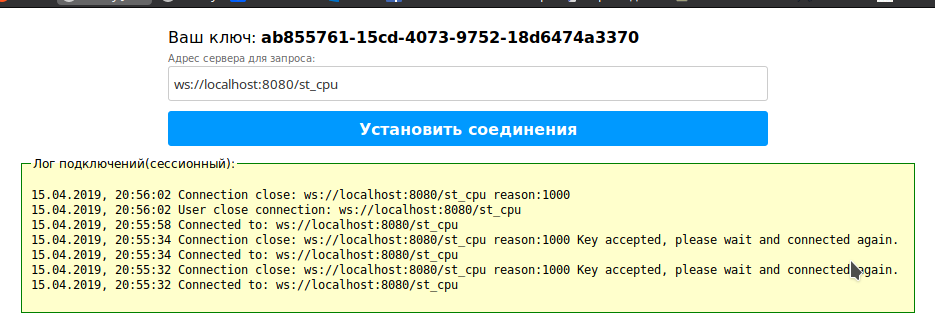
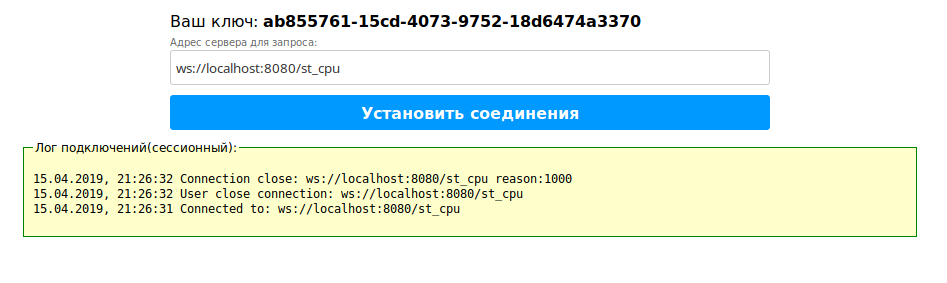
readme update

diff --git a/README.md b/README.md
@@ -1,130 +1,164 @@
+# Тестовое задание 
 
+## Описание задания
+
+Написать сервер и клиента со следующим функционалом:
+1. При запуске клиента ему передаётся адрес сервера. Клиент формирует уникальный ключ и пытается подключиться с ним к серверу.
+2. Сервер имеет простой web-интерфейс, закрытый паролем.
+3. В интерфейсе сервера можно посмотреть все запросы от клиентов и разрешить или отклонить запрос.
+4. Если запрос принят, то секретный ключ клиента сохраняется в список разрешённых и клиент может поднять web-сокет для обмена состоянием с сервером.
+5. Если запрос отклонён, то секретный ключ клиента сохраняется в список запрещённых и клиент больше не отображается списке запросов.
+6. Клиент должен уметь переживать перезагрузку.
+7. Сервер также должен показывать список разрешённых клиентов.
+8. В информации о клиенте должны быть имя и IP адрес машины клиента.
+9. У клиентов, подключенных по сокету необходимо показывать загрузку процессора.
+
+Примечание:
+В данном случае речь о взаимодействии сервисов, поэтому описываемое взаимодействие "клиент-сервис" по сути является взаимодействием "сервис-сервис"
+
+## Серверная часть 
+
+Серверная часть проекта решает задачу регистрации ключей на стороне сервера и управления ими через административную часть сервера. 
+Сервер использует базу данных для хранения ключей, в данном случае была выбрана [PostgreSQL]([https://www.postgresql.org/](https://www.postgresql.org/)), в качестве ORM системы для работы с БД используется [Gorm]([http://gorm.io/](http://gorm.io/)).
+Сервер написан на языке программирования [Go]([https://golang.org/](https://golang.org/)), c использованием [модульной системы](https://github.com/golang/go/wiki/Modules) для загрузки зависимостей. 
+Операции получения процента загрузки ЦП реализованы для ОП Linux. В windows это работать не будет.
+
+### Серверная часть разделена на 3 части: 
+
+1. **Web-сервер** для управление поступившими запросами.  Описание доступных url адресов страниц см. в таблице Web server.
+2. **RestApi** для получения сессии авторизации и выхода из сессии(табл. RestAPi).
+3. **WebSocket** подключения, одно для подключения клиента. И ещё одно для администратора для работы со списком запросов(табл. Websocket).
+
+В рамках данной задачи для удобства все эти сервисы запускаются одним исполняемым файлом.
+
+### Запуск сервера: 
+
+Для осуществления работы с базой данных, используется [docker]([https://www.docker.com/](https://www.docker.com/).
+Перед запуском сервера необходимо запустить докер.
+
+#### Запуск докера Как установить и запустить Docker:
+ 1. [Установка Docker-CE (ubuntu)](https://docs.docker.com/install/linux/docker-ce/ubuntu/)
+ 2. [Установка Docker compose](https://docs.docker.com/compose/install/)
+ 3. В папке `docker` запустить: `sudo docker-compose up`
+
+После запуска докера запускаем сервер, до процесса компиляции он находится в папке: `/server`
+Для конфигурирования сервера, используется файл settins.json (json формат [RFC7159]([https://tools.ietf.org/html/rfc7159](https://tools.ietf.org/html/rfc7159))), 
+данный файл должен находится в той же директории где находится исполняемый файл сервера.
+Формат файла настроек settins.json, все поля в данном файле обязательны, из название поля должно быть понятно за что оно отвечает, секция gorm отвечает за подключение к БД:
+```json 
+{
+  "name": "api",
+  "version": "1.0.0",
+  "host" : "localhost",
+  "port" : "8080",
+  "gorm" : {
+    "type" : "postgres",
+    "host" : "localhost",
+    "port" : "45432",
+    "user" : "postgres",
+    "password" : "postgres",
+    "database" : "main",
+    "connPattern" : "%s://%s:%s@%s:%s?database=%s&sslmode=disable"
+  }
+} 
+``` 
+
+### Таблицы в БД Для работы сервиса необходима 1 таблица `keys` SQL запрос для создания таблицы:
+```sql
+-- auto-generated definition
+create table keys
+(
+	id serial
+		constraint keys_pk
+			primary key,
+	key varchar(256),
+	name varchar(256),
+	ip varchar(256),
+	status SMALLINT
+);
+
+create unique index keys_key_uindex
+	on keys (key);
+``` 
+
+#### Описание сущности в таблице keys: 
+
+Ключ | Тип | Значение
+---|---|--- 
+id |int|Числовой уникальный идентификатор ключа, создается при добавлении ключа в таблице 
+key |string|Ключ который передал клиент формат: **xxxxxxxx-xxxx-4xxx-yxxx-xxxxxxxxxxxx** 
+name|string|Имя ключа, при первичной регистрации заполняется UserAgen клиента, далее администратор в праве задать имя самостоятельно.
+ip|string|Ip клиента при отправки ключа.
+status|int|Статус ключа. См. Ниже описание статусов.
+
+#### Описание статусов ключа: 
+
+Статус | Описание
+---|--- 0 |Статус не назначен, присваивается при первичном обращении клиента.
+1 |Статус активен, т.е. может создать websocket подключение и получать статистику загрузки ЦП.
+2 |Заблокирован. При обращении с этим ключом, будет возвращать статус 1008 и сообщение "banned"
+
+#### Дополнительные статусы(в БД не заносятся) 
+
+Статус | Описание
+---|---
+4 |Данный статус отправляется в запросе на получение списка ключей администратором. Создан для того что бы получить все возможные ключи из БД в секции "Все".
+100 |Онлайн, отправляется клиентам в момент создания подключения ключа с активным статусом. Что бы администраторы могли его отобразить в секции online.
+200 |Офлайн, отправляется клиентом когда активный клиент отключился, по собственной причине или по причине блокировки в момент его активного подключения. Для того что бы администраторы если у них выбрана секция online могли убрать его из списка.
+
+### Таблицы для описания подключений:
+
+#### Web server
+
+Страница управление запросами и клиент написаны с использованием [vue.js](https://vuejs.org/)
+Для формы авторизации [jquery 3.3](https://jquery.com/).
+Публичная часть сервера(css, js, images и т.д.) находится в папке `server/http_files/public`
+Статика для url(html страницы) хранится: `server/http_files/` пользователям не получить к ним доступ напрямую.
+
+Url  | Описание
+---|--- 
+/ | основная страница сервера, если пользователь авторизован то переходит на страницу управления запросов. Иначе будет отображена форма авторизации.
+/client | веб клиент для подключения к серверу. Также можно открывать: server/http_files/client.html в браузере, и тоже будет работать.
+
+#### RestAPi
+ Url | Описание
+---|---
+/login | Авторизация, отправляем логин и пароль POST запросом для авторизации(переменные: login, pass). Логин: admin Пароль: admin
+/logout | Разлогинится.
+
+#### Websocket
   
-# Тестовое задание  
-## Описание задания    
- Написать сервер и клиента со следующим функционалом:    
-1. При запуске клиента ему передаётся адрес сервера. Клиент формирует уникальный ключ и пытается подключиться с ним к серверу.    
-2. Сервер имеет простой web-интерфейс, закрытый паролем.    
-3. В интерфейсе сервера можно посмотреть все запросы от клиентов и разрешить или отклонить запрос.    
-4. Если запрос принят, то секретный ключ клиента сохраняется в список разрешённых и клиент может поднять web-сокет для обмена состоянием с сервером.    
-5. Если запрос отклонён, то секретный ключ клиента сохраняется в список запрещённых и клиент больше не отображается списке запросов.    
-6. Клиент должен уметь переживать перезагрузку.    
-7. Сервер также должен показывать список разрешённых клиентов.    
-8. В информации о клиенте должны быть имя и IP адрес машины клиента.    
-9. У клиентов, подключенных по сокету необходимо показывать загрузку процессора.    
+ Url | Описание
+---|--- 
+/st_cpu | Отправить ключ, и уже после одобрения в админке ключа можно подключиться и получать загрузку CPU.
+/ws_list | Подключение для работы со списком запросов. Необходима авторизация.
     
-Примечание:    
-В данном случае речь о взаимодействии сервисов, поэтому описываемое взаимодействие "клиент-сервис" по сути является взаимодействием "сервис-сервис"  
-  
-    
-## Серверная часть  
-Серверная часть проекта решает задачу регистрации ключей на стороне сервера и управления ими через  
-административную часть сервера. Сервер использует базу данных для хранения ключей, в данном случае была выбрана [PostgreSQL]([https://www.postgresql.org/](https://www.postgresql.org/)), в качестве ORM системы для работы с БД используется [Gorm]([http://gorm.io/](http://gorm.io/)).  
-Сервер написан на языке программирования [Go]([https://golang.org/](https://golang.org/)), c использованием [модульной системы](https://github.com/golang/go/wiki/Modules) для загрузки зависимостей. Операции получения процента загрузки ЦП реализованы для ОП Linux. В windows это работать не будет.   
-  
-### Серверная часть разделена на 3 части: 1. **Web-сервер** для управление поступившими запросами.  Описание доступных url адресов страниц см. в таблице Web server.  
-2. **RestApi** для получения сессии авторизации и выхода из сессии(табл. RestAPi).    
-3. **WebSocket** подключения, одно для подключения клиента. И ещё одно для администратора для работы со списком запросов(табл. Websocket).  
-  
-В рамках данной задачи для удобства все эти сервисы запускаются одним исполняемым файлом.  
-  
-### Запуск сервера:  
-Для осуществления работы с базой данных, используется [docker]([https://www.docker.com/](https://www.docker.com/). Перед запуском сервера необходимо запустить докер.  
-#### Запуск докера  
-Как установить и запустить Docker:     
- 1. [Установка Docker-CE (ubuntu)](https://docs.docker.com/install/linux/docker-ce/ubuntu/)    
- 2. [Установка Docker compose](https://docs.docker.com/compose/install/)    
- 3. В папке `docker` запустить: `sudo docker-compose up`  
-  После запуска докера запускаем сервер, до процесса компиляции он находится в папке: `/server` Для конфигурирования сервера, используется файл settins.json (json формат [RFC7159]([https://tools.ietf.org/html/rfc7159](https://tools.ietf.org/html/rfc7159))), данный файл должен находится в той же директории где находится исполняемый файл сервера.  
-Формат файла настроек settins.json, все поля в данном файле обязательны, из название поля должно быть понятно за что оно отвечает, секция gorm отвечает за подключение к БД:  
-```json  
-{    
- "name": "api",    
- "version": "1.0.0",    
- "host" : "localhost", "port" : "8080", "gorm" : { "type" : "postgres", "host" : "localhost", "port" : "45432", "user" : "postgres", "password" : "postgres", "database" : "main", "connPattern" : "%s://%s:%s@%s:%s?database=%s&sslmode=disable"} }  
-```  
-### Таблицы в БД  
-Для работы сервиса необходима 1 таблица `keys` SQL запрос для создания таблицы:  
-```sql  
--- auto-generated definition create table keys (    
- id serial      constraint keys_pk    
-         primary key,    
- key varchar(256),    
- name varchar(256),    
- ip varchar(256),    
- status SMALLINT );    
- create unique index keys_key_uindex    
-   on keys (key);  
-```  
-#### Описание сущности в таблице keys:  
-Ключ | Тип | Значение  
----|---|---  
-id |int|Числовой уникальный идентификатор ключа, создается при добавлении ключа в таблице  
-key |string|Ключ который передал клиент формат: **xxxxxxxx-xxxx-4xxx-yxxx-xxxxxxxxxxxx**  
-name|string|Имя ключа, при первичной регистрации заполняется UserAgen клиента, далее администратор в праве задать имя самостоятельно.  
-ip|string|Ip клиента при отправки ключа.  
-status|int|Статус ключа. См. Ниже описание статусов.  
-#### Описание статусов ключа:  
-Статус | Описание  
----|---  
-0 |Статус не назначен, присваивается при первичном обращении клиента.  
-1 |Статус активен, т.е. может создать websocket подключение и получать статистику загрузки ЦП.  
-2 |Заблокирован. При обращении с этим ключом, будет возвращать статус 1008 и сообщение "banned"  
-#### Дополнительные статусы(в БД не заносятся)  
-Статус | Описание  
----|---  
-4 |Данный статус отправляется в запросе на получение списка ключей администратором. Создан для того что бы получить все возможные ключи из БД в секции "Все".  
-100 |Онлайн, отправляется клиентам в момент создания подключения ключа с активным статусом. Что бы администраторы могли его отобразить в секции online.  
-200 |Офлайн, отправляется клиентом когда активный клиент отключился, по собственной причине или по причине блокировки в момент его активного подключения. Для того что бы администраторы если у них выбрана секция online могли убрать его из списка.  
-  
-### Таблицы для описания подключений:  
-#### Web server    
- Страница управление запросами и клиент написаны с использованием [vue.js](https://vuejs.org/) Для формы авторизации [jquery 3.3](https://jquery.com/).  Публичная часть сервера(css, js, images и т.д.) находится в папке `server/http_files/public` Статика для url(html страницы) хранится: `server/http_files/` пользователям не получить к ним доступ напрямую.
-    
-Url  | Описание    
----|--- / | основная страница сервера, если пользователь авторизован то переходит на страницу управления запросов. Иначе будет отображена форма авторизации.    
-/client | веб клиент для подключения к серверу. Также можно открывать: server/http_files/client.html в браузере, и тоже будет работать.  
-    
-#### RestAPi  
-  Url | Описание    
----|--- /login | Авторизация, отправляем логин и пароль POST запросом для авторизации(переменные: login, pass). Логин: admin Пароль: admin    
-/logout | Разлогинится.    
-    
-#### Websocket    
- Url | Описание    
----|--- /st_cpu | Отправить ключ, и уже после одобрения в админке ключа можно подключиться и получать загрузку CPU.    
-/ws_list | Подключение для работы со списком запросов. Необходима авторизация.    
-    
-  
-### Описание работы административной части  
-Представляет собой веб интерфейс доступ к которому защищен логином и паролем:  
-  
-![login form](/images/admin_login.png)  
-  
-Логин: **admin** Пароль: **admin**  
-Для реализации обновления данных в реальном времени, административная часть используется подключение по **websocket**(адрес: /ws_list, для подключения необходима авторизация).  
-Веб-интерфейс для управления запросами находится по адресу:  **http://localhost:8080/**  
-Если пользователь успешно пройдет авторизацию то его перекинет на страницу управления запросами.  
-Для удобства сортировки и управления ключами, интерфейс разделен на 5 категорий:  
-  
-![list](/images/admin_list.png)  
-  
-1. **Запросы** в эту категорию попадают ключи, которым администратор ещё не присвоил статус.  
-2.  **Разрешенные** список ключей с которым администратор разрешил доступ.  
-3.  **Заблокированные** список заблокированных ключей.  
-4.  **Все** список всех ключей.  
-5.  **Online** список ключей которым администратор назначел статус активен, и которые в данный момент подключены к серверу.  
-  
-В каждой категории администратор имеет права назначить статус ключу. Но есть ограничений когда мы находимся к примеру в списке разрешенных ключей, мы не сможем ещё раз отметить ключ активным.  
-  
-Все списки обновляются в реальном времени. Т.е. если у администратора, открыт список запросов, и в данный момент появился новый запрос, он отобразится в этом списке. Или к примеру у 1 администратора открыт список разрешенных ключей, а 2 администратор из списка заблокированных ключей перенесет ключ в статус активных, этот ключ без обновления страницы отобразится у 1 администратора.  
-  
-В момент присвоения нового статуса ключу администратор так же может присвоить ключу имя, во всплывающем диалоговом окне.  
-  
-![popup](/images/admin_popup.png)  
-  
+### Описание работы административной части
+
+Представляет собой веб интерфейс доступ к которому защищен логином и паролем:
+
+![login form](/images/admin_login.png)
+
+Логин: **admin** Пароль: **admin** Для реализации обновления данных в реальном времени, административная часть используется подключение по **websocket**(адрес: /ws_list, для подключения необходима авторизация).
+Веб-интерфейс для управления запросами находится по адресу: **http://localhost:8080/** Если пользователь успешно пройдет авторизацию то его перекинет на страницу управления запросами.
+Для удобства сортировки и управления ключами, интерфейс разделен на 5 категорий:
+
+![list](/images/admin_list.png)
+
+1. **Запросы** в эту категорию попадают ключи, которым администратор ещё не присвоил статус.
+2.  **Разрешенные** список ключей с которым администратор разрешил доступ.
+3.  **Заблокированные** список заблокированных ключей.
+4.  **Все** список всех ключей.
+5.  **Online** список ключей которым администратор назначел статус активен, и которые в данный момент подключены к серверу.
+
+В каждой категории администратор имеет права назначить статус ключу. Но есть ограничений когда мы находимся к примеру в списке разрешенных ключей, мы не сможем ещё раз отметить ключ активным.
+Все списки обновляются в реальном времени. Т.е. если у администратора, открыт список запросов, и в данный момент появился новый запрос, он отобразится в этом списке. Или к примеру у 1 администратора открыт список разрешенных ключей, а 2 администратор из списка заблокированных ключей перенесет ключ в статус активных, этот ключ без обновления страницы отобразится у 1 администратора.
+В момент присвоения нового статуса ключу администратор так же может присвоить ключу имя, во всплывающем диалоговом окне.
+
+![popup](/images/admin_popup.png)
+
 ### Описание работы клиента который отправляет запрос с ключом:
-Клиент осуществляет доступ к серверу через **websoket** подключение _/st_cpu_
+Клиент осуществляет доступ к серверу через **websoket** подключение _/st_cpu_  В желтом окошечке у клиента ведётся лог подключения он сессионный, то есть если закрыть полностью окно браузере он сотрётся. Это сделано из-за ограничения размера cookies
 При запуске клиента генерируется ключ, если до этого был сгенерирован загружается уже сгенерированый ключ.
 
 ![client](/images/client_firstconn.png)
